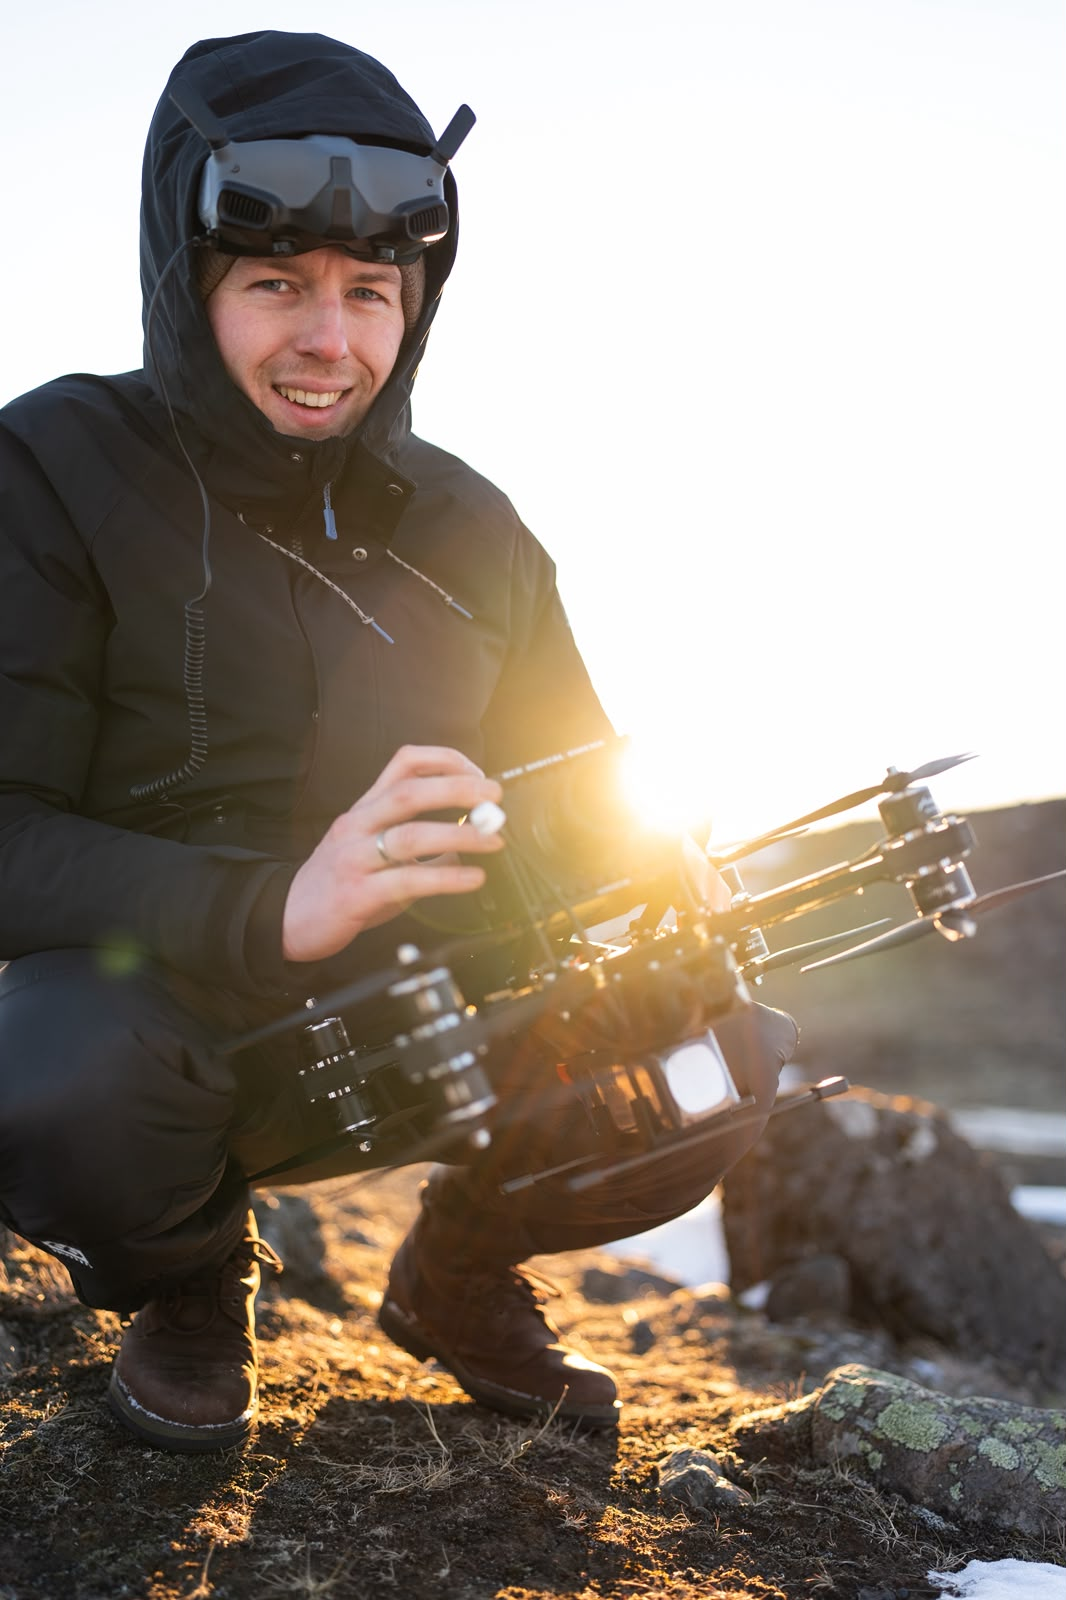
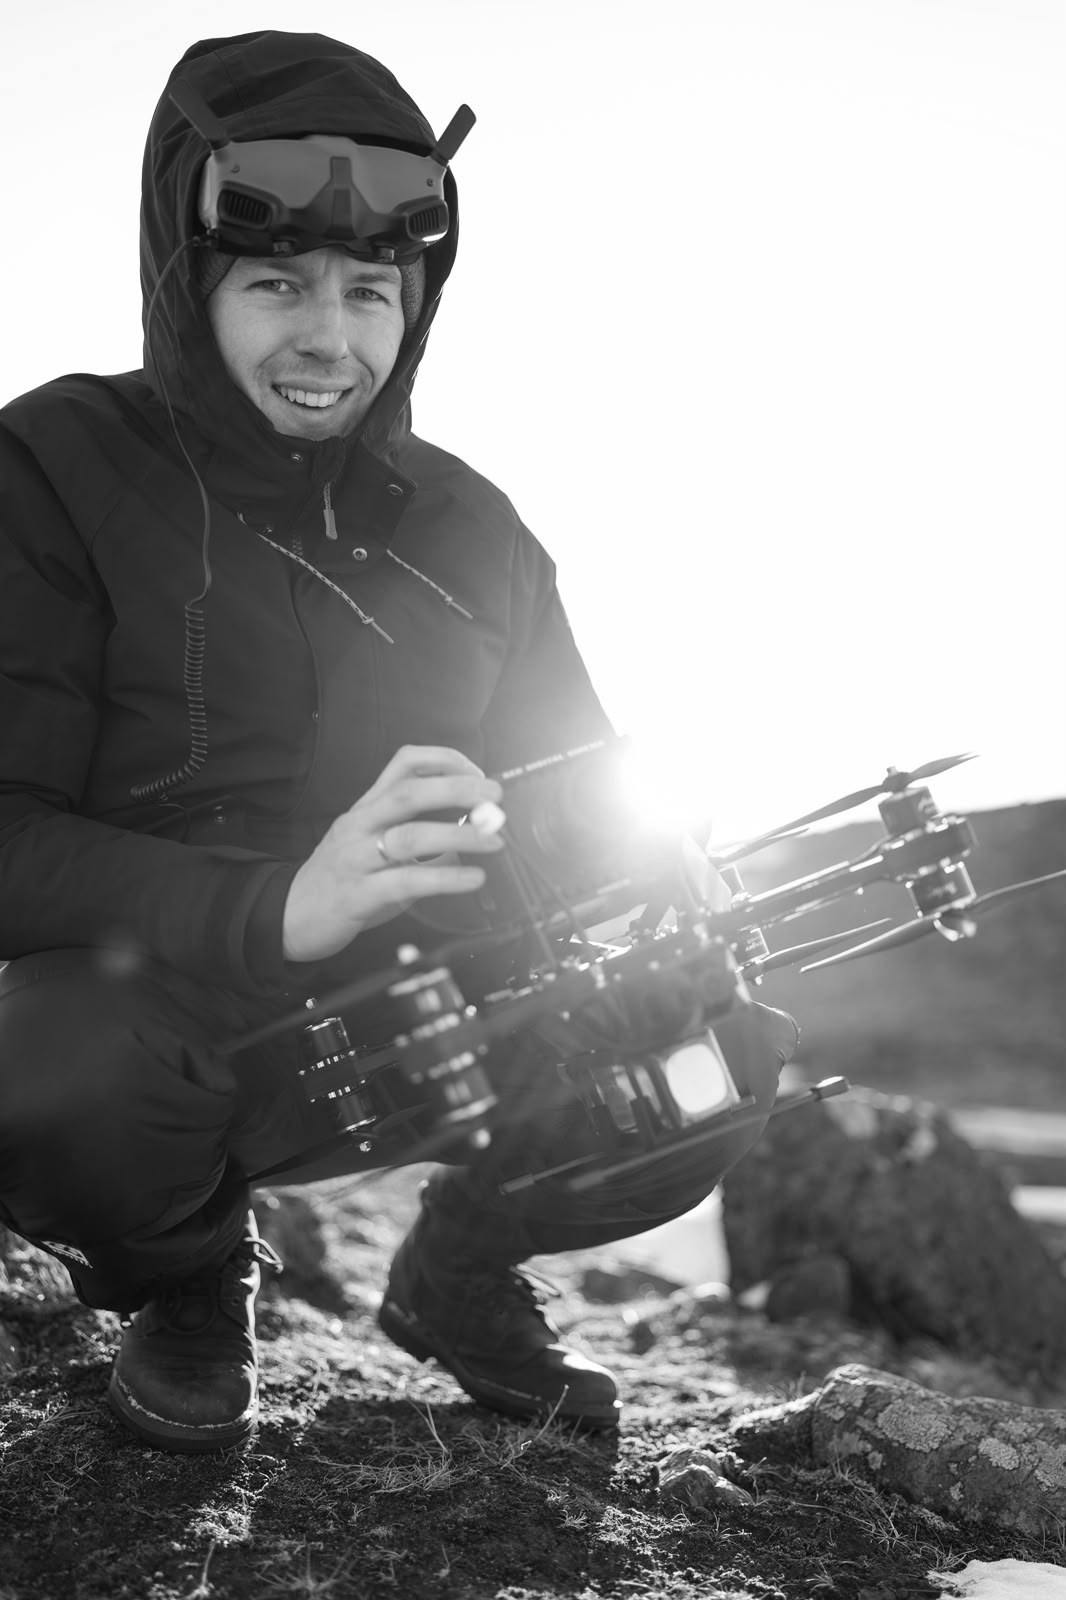
Ansprechpartner-Fotos einheitlich in Graustufen
Foto von Roman Scholz in Graustufen konvertiert (wie die übrigen
Ansprechpartner-Bilder). Zusätzlich filtert .ap-photo per CSS auf
Graustufen, damit auch im Admin-Bereich hochgeladene Farbbilder
einheitlich dargestellt werden.

Claude-Session: https://claude.ai/code/session_01WgPwLaFEPjLA6SppQjuy4Q

diff --git a/public/assets/styles.css b/public/assets/styles.css
@@ -1042,7 +1042,9 @@ h1, h2, h3 { hyphens: none !important; overflow-wrap: break-word; }
 .ap-grid { display: grid; grid-template-columns: repeat(3, 1fr); gap: 20px; margin-bottom: 28px; }
 @media (max-width: 760px) { .ap-grid { grid-template-columns: 1fr; } }
 .ap-card { background: #fff; border: 1px solid var(--line); border-radius: 14px; overflow: hidden; box-shadow: 0 2px 12px rgba(15,33,69,0.06); }
-.ap-photo { width: 100%; aspect-ratio: 1/1; object-fit: cover; object-position: top center; display: block; }
+/* Alle Ansprechpartner-Fotos einheitlich in Graustufen – auch die, die im
+   Admin-Bereich als Farbbild hochgeladen werden. */
+.ap-photo { width: 100%; aspect-ratio: 1/1; object-fit: cover; object-position: top center; display: block; filter: grayscale(1); }
 .ap-body { padding: 16px 18px 18px; }
 .ap-topic { font-size: 10px; font-weight: 700; letter-spacing: 1.5px; text-transform: uppercase; color: var(--gold-dark); margin-bottom: 4px; }
 .ap-name { font-size: 16px; font-weight: 800; color: var(--navy); margin-bottom: 12px; }
